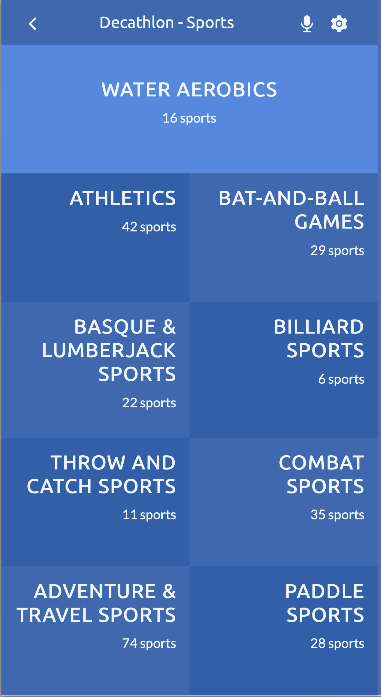
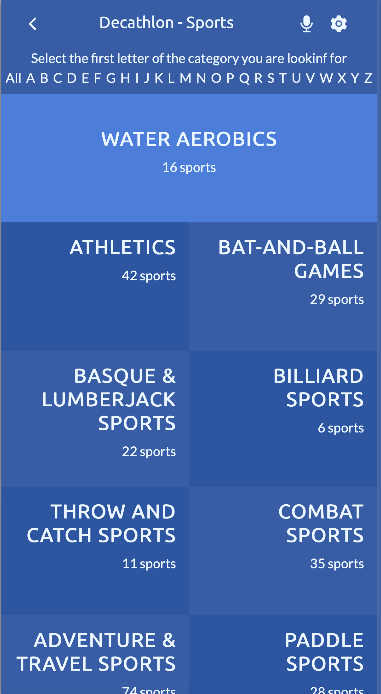
make changes requested in pull rerequest 1

Changed region(s): [[0.0, 0.0303, 1.0, 1.0]]

diff --git a/src/components/Groups/Groups.js b/src/components/Groups/Groups.js
@@ -1,3 +1,4 @@
+/* eslint-disable no-unused-vars */
 import { useEffect } from 'react';
 import { useDispatch, useSelector } from 'react-redux';
 import { fetchGroups } from '../../Redux/Sports/groups';
@@ -9,6 +10,9 @@ const Groups = () => {
   const dispatch = useDispatch();
   const groups = useSelector((state) => state.groups.entities);
   const sports = useSelector((state) => state.sports.entities);
+  const filter = useSelector((state) => state.toFilter.toFilter);
+  const filteredGropus = groups.filter((group) => group.attributes.name[0] === filter);
+  const displayableGroups = filter ? filteredGropus : groups;
 
   useEffect(() => {
     if (groups.length === 0) {
@@ -29,7 +33,7 @@ const Groups = () => {
   ));
 
   return (
-    <div className="d-flex flex-wrap group-container">{renderGroups(groups)}</div>
+    <div className="d-flex flex-wrap group-container">{renderGroups(displayableGroups)}</div>
   );
 };
 

diff --git a/src/components/FilterByName.js b/src/components/FilterByName.js
@@ -1,0 +1,22 @@
+import { useDispatch } from 'react-redux';
+import { setFilter } from '../Redux/Filter/filter';
+
+const FilterByName = () => {
+  const dispatch = useDispatch();
+  const alpha = Array.from(Array(26)).map((e, i) => i + 65);
+  const alphabet = alpha.map((x) => String.fromCharCode(x));
+  const handleClick = (targetedLetter) => {
+    dispatch(setFilter(targetedLetter));
+  };
+  const displayButtons = alphabet.map((letter) => (
+    <button type="button" className="bttn" key={letter} onClick={() => handleClick(letter)}>{letter}</button>
+  ));
+  return (
+    <>
+      <button type="button" className="bttn" onClick={() => handleClick(null)}>All</button>
+      {displayButtons}
+    </>
+  );
+};
+
+export default FilterByName;

diff --git a/src/__tests__/Sports/SportsList.test.js b/src/__tests__/Sports/SportsList.test.js
@@ -4,13 +4,13 @@ import renderer from 'react-test-renderer';
 import {
   HashRouter as Router,
 } from 'react-router-dom';
-import Header from '../../components/Header';
+import SportsList from '../../components/Header';
 import store from '../../Redux/configureStore';
 
 describe('Check if all components are rendered', () => {
   it('renders correctly', () => {
     const tree = renderer
-      .create(<Provider store={store}><Router><Header /></Router></Provider>)
+      .create(<Provider store={store}><Router><SportsList /></Router></Provider>)
       .toJSON();
     expect(tree).toMatchSnapshot();
   });

diff --git a/src/__tests__/NoMatch/NotMatch.test.js b/src/__tests__/NoMatch/NotMatch.test.js
@@ -4,13 +4,13 @@ import renderer from 'react-test-renderer';
 import {
   HashRouter as Router,
 } from 'react-router-dom';
-import Header from '../../components/Header';
+import NotMatch from '../../pages/NotMatch';
 import store from '../../Redux/configureStore';
 
 describe('Check if all components are rendered', () => {
   it('renders correctly', () => {
     const tree = renderer
-      .create(<Provider store={store}><Router><Header /></Router></Provider>)
+      .create(<Provider store={store}><Router><NotMatch /></Router></Provider>)
       .toJSON();
     expect(tree).toMatchSnapshot();
   });

diff --git a/src/Redux/Filter/filter.js b/src/Redux/Filter/filter.js
@@ -1,0 +1,21 @@
+/* eslint-disable no-case-declarations */
+const SET_FILTER = 'SET_FILTER';
+
+const initialState = [{ toFilter: null }];
+
+export const setFilter = (payload) => ({
+  type: SET_FILTER,
+  payload,
+});
+
+const reducer = (state = initialState, action) => {
+  switch (action.type) {
+    case SET_FILTER:
+      const newState = { toFilter: action.payload };
+      return newState;
+    default:
+      return state;
+  }
+};
+
+export default reducer;

diff --git a/src/Redux/configureStore.js b/src/Redux/configureStore.js
@@ -4,11 +4,13 @@ import {
 import thunk from 'redux-thunk';
 import groups from './Sports/groups';
 import sports from './Sports/sportsList';
+import toFilter from './Filter/filter';
 
 const reducer = combineReducers({
   // additional reducers could be added here
   groups,
   sports,
+  toFilter,
 });
 
 const composeEnhancers = window.__REDUX_DEVTOOLS_EXTENSION_COMPOSE__ || compose;

diff --git a/src/pages/Home.js b/src/pages/Home.js
@@ -1,7 +1,12 @@
 import Groups from '../components/Groups/Groups';
+import FilterByName from '../components/FilterByName';
 
 const Home = () => (
   <div>
+    <p className="text-center mb-0 mt-1">Select the first letter of the category you are lookinf for </p>
+    <div className="d-flex justify-content-evenly mb-2">
+      <FilterByName />
+    </div>
     <Groups />
   </div>
 );

diff --git a/src/App.js b/src/App.js
@@ -4,7 +4,6 @@ import {
   Route,
   HashRouter as Router,
 } from 'react-router-dom';
-import './style/app.css';
 import Home from './pages/Home';
 import Header from './components/Header';
 import NotMatch from './pages/NotMatch';

diff --git a/src/__tests__/Sports/SportsByCategory.test.js b/src/__tests__/Sports/SportsByCategory.test.js
@@ -1,5 +1,4 @@
 import React from 'react';
-import '@testing-library/jest-dom';
 import { Provider } from 'react-redux';
 import renderer from 'react-test-renderer';
 import Sports from '../../components/SportsByCategory';

diff --git a/src/__tests__/Groups/Groups.test.js b/src/__tests__/Groups/Groups.test.js
@@ -1,5 +1,4 @@
 import React from 'react';
-import '@testing-library/jest-dom';
 import { Provider } from 'react-redux';
 import renderer from 'react-test-renderer';
 import Groups from '../../components/Groups/Groups';

diff --git a/src/style/index.css b/src/style/index.css
@@ -12,6 +12,12 @@
   box-sizing: border-box;
 }
 
+.bttn {
+  background-color: var(--blue);
+  color:aliceblue;
+  border: none;
+}
+
 body {
   margin: 0;
   font-family: 'Lato', sans-serif;

diff --git a/src/__tests__/Groups/Group.test.js b/src/__tests__/Groups/Group.test.js
@@ -1,5 +1,4 @@
 import React from 'react';
-import '@testing-library/jest-dom';
 import { Provider } from 'react-redux';
 import renderer from 'react-test-renderer';
 import {
